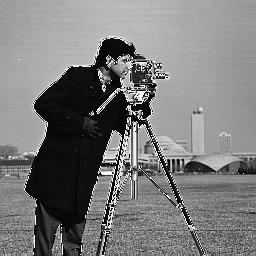
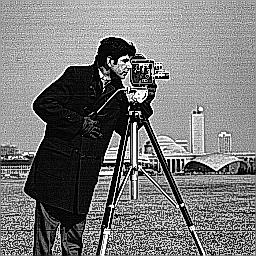
Fix Sharpening algorithm

diff --git a/sharpening.py b/sharpening.py
@@ -43,7 +43,7 @@ def add_2_images(first_image, second_image):
                                                           + str(len(first_image)) \
                                                           + ", " + str(len(second_image))
 
-    new_image = first_image.copy()
+    new_image = np.zeros(shape=first_image.shape)
     if len(first_image) != len(second_image):
         raise AssertionError(error_message(len(first_image), len(second_image)))
     for i in range(len(first_image)):
@@ -52,6 +52,8 @@ def add_2_images(first_image, second_image):
 
         for j in range(len(first_image[i])):
             new_image[i][j] = first_image[i][j] + second_image[i][j]
+            if new_image[i][j] > 255:
+                new_image[i][j] = 255
 
     return new_image
 
@@ -59,6 +61,7 @@ def sharpen(numpy_image, kernel, intensity_scaling_factor):
     convoluted_image = convolute(numpy_image, kernel)
     scaled_image = scale_intensities(convoluted_image, intensity_scaling_factor)
     sharpened_image = add_2_images(numpy_image, scaled_image)
+    Image.fromarray(add_2_images(numpy_image, convoluted_image)).convert("L").save("Sharpened2.jpg")
 
     return Image.fromarray(sharpened_image).convert("L")
 
